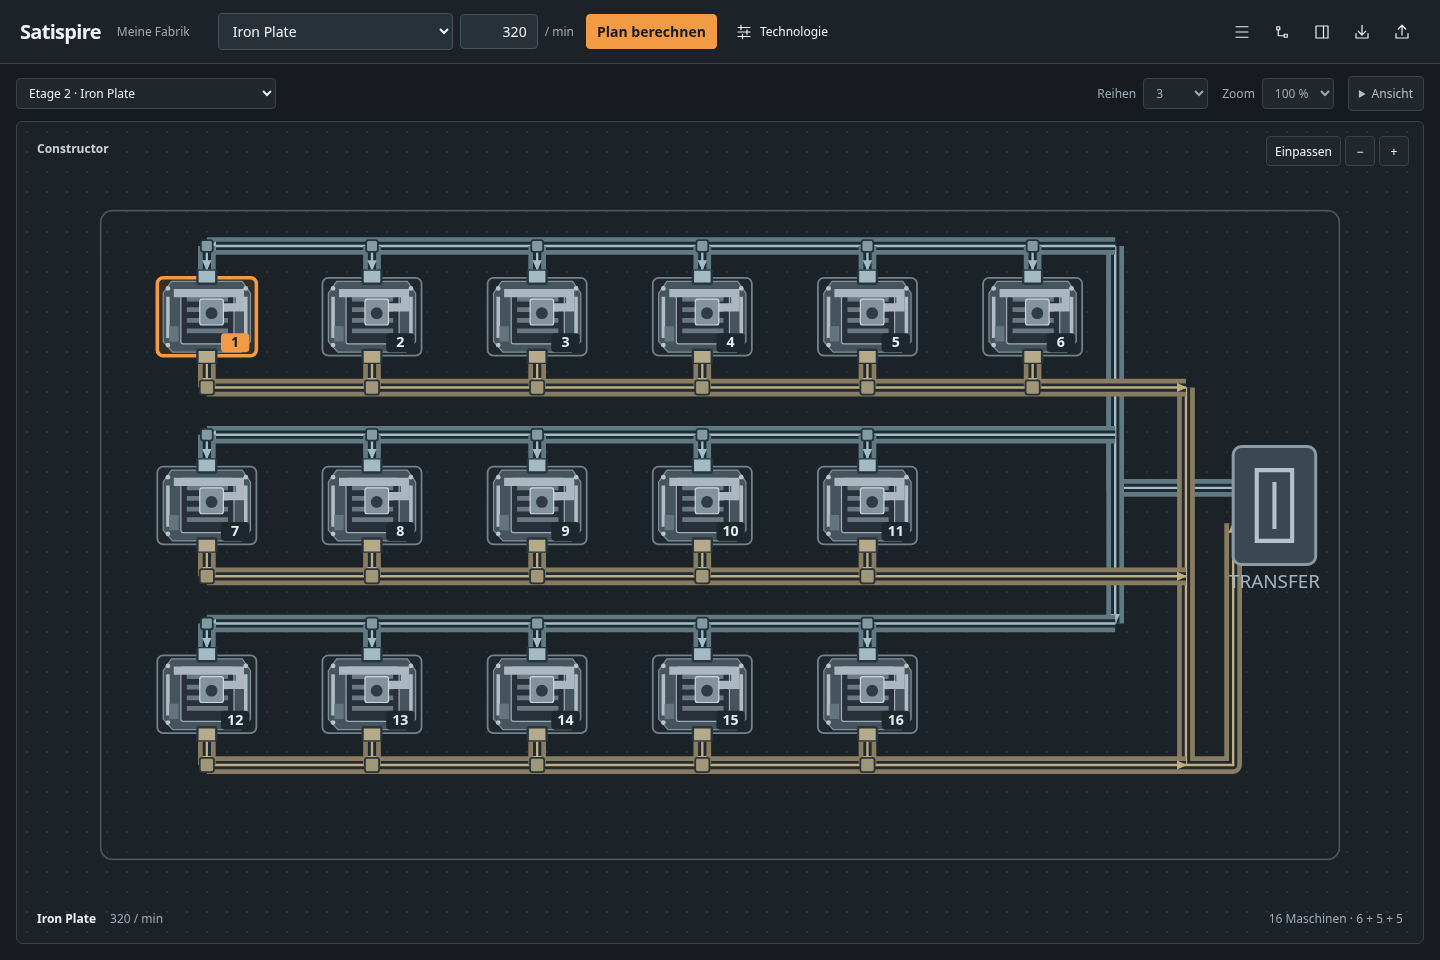
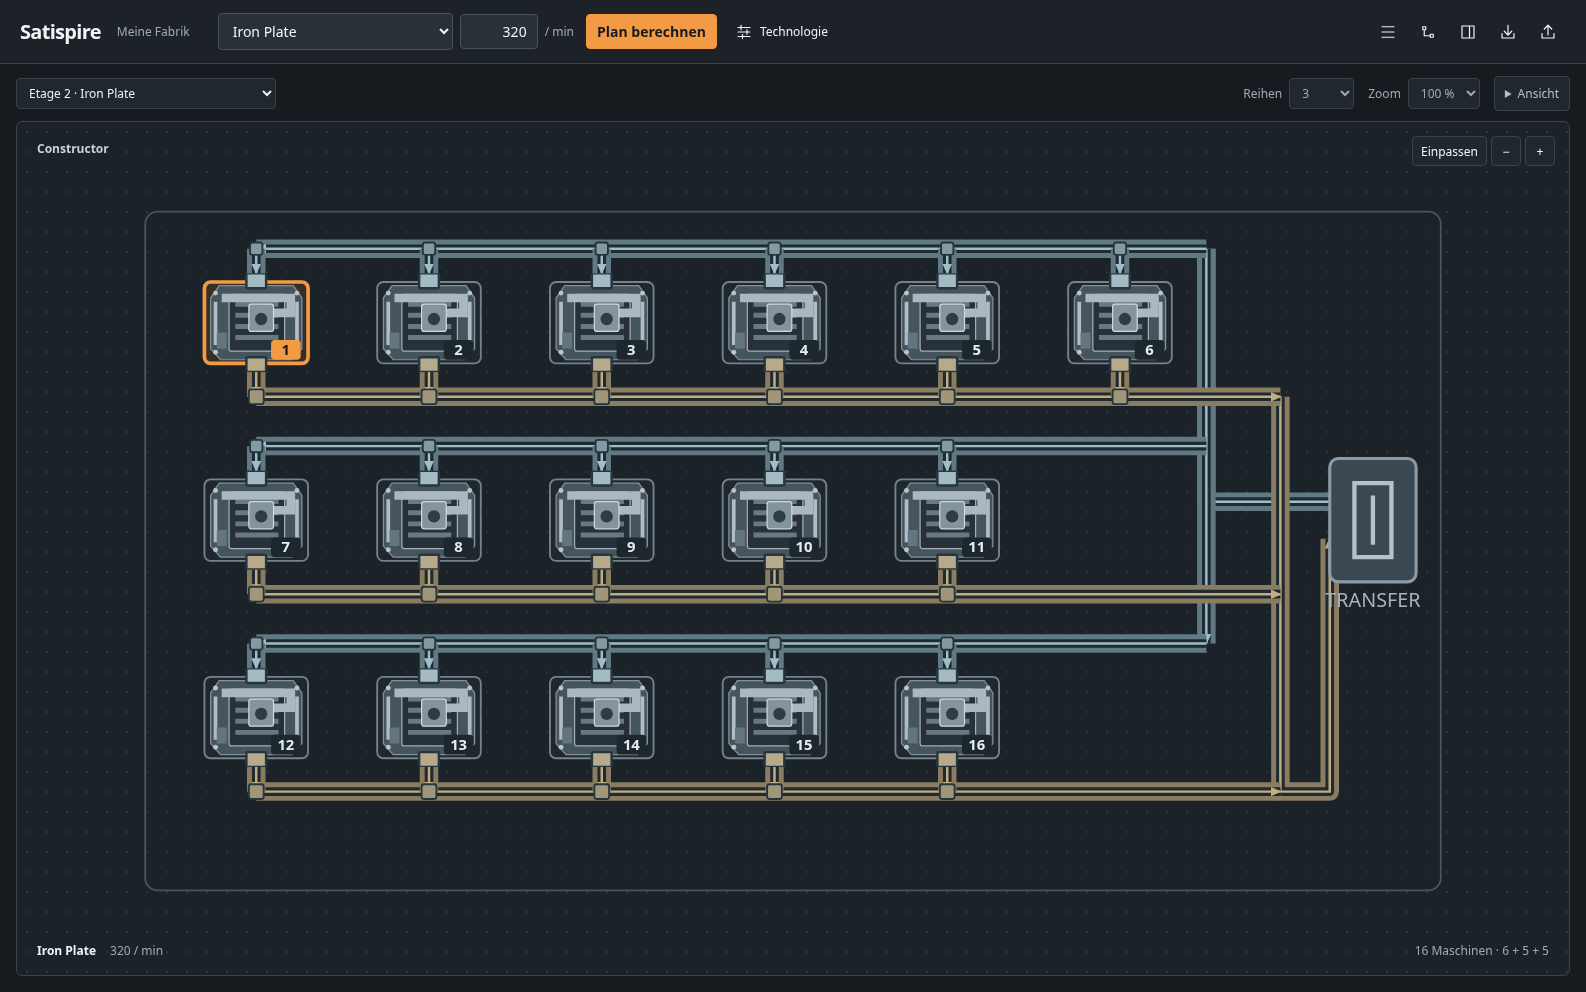
Capture visual comparisons at the confirmed reference A size

diff --git a/docs/qa/visual-correction-2026-10-11.md b/docs/qa/visual-correction-2026-10-11.md
@@ -4,13 +4,13 @@ This is a reviewable visual correction of the existing workspace from confirmed 
 
 ## Actual inspected browser images
 
-- [Desktop, panels closed](vanilla-desktop.png): 1440 × 960.
-- [Desktop, graph and inspector open](vanilla-panels.png): 1440 × 960.
+- [Desktop, panels closed](vanilla-desktop.png): 1586 × 992.
+- [Desktop, graph and inspector open](vanilla-panels.png): 1586 × 992.
 - [Mobile initial working view](vanilla-mobile.png): 390 × 844.
 - [Mobile secondary settings sheet](vanilla-mobile-sheet.png): 390 × 844.
-- [Assembler with two connected symbolic feeds](vanilla-assembler.png): 1440 × 960.
+- [Assembler with two connected symbolic feeds](vanilla-assembler.png): 1586 × 992.
 
-All five images were opened and visually inspected in this executor after capture. The first mobile capture failed the visual criterion: a tiny whole factory remained centered in a tall grid. The revised mobile start uses a readable horizontal working window and a shorter content canvas; full overview remains reachable with Einpassen. No claim of pixel-identical reference comparison is made: the supported Library materialization returned references, but both authenticated byte transfers failed again. Neither original A nor B was readable here. The parent has already viewed them and supplied the explicit visual comparison. Original A's exact pixel size was requested but remains unconfirmed; 1440 × 960 is the documented capture size.
+All five images were opened and visually inspected in this executor after capture. The first mobile capture failed the visual criterion: a tiny whole factory remained centered in a tall grid. The revised mobile start uses a readable horizontal working window and a shorter content canvas; full overview remains reachable with Einpassen. No claim of pixel-identical reference comparison is made: the supported Library materialization returned references, but both authenticated byte transfers failed again. Neither original A nor B was readable here. The parent has already viewed them and supplied the explicit visual comparison. The parent subsequently confirmed original A is exactly 1586 × 992 pixels (PNG, 1,621,060 bytes). Desktop captures now use those exact pixel dimensions. Direct comparison with the actual original remains assigned to the parent; these same-size captures do not claim that comparison is already complete.
 
 ## Criteria checked against the actual images
 
